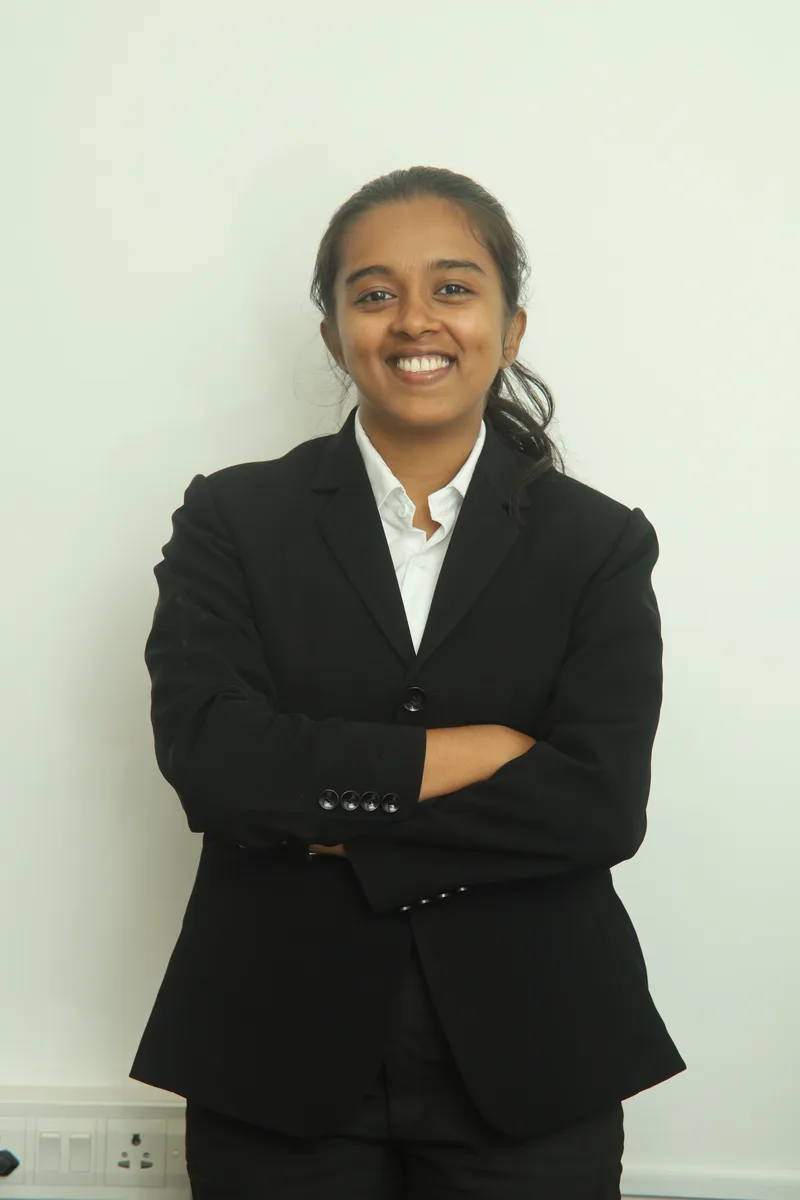
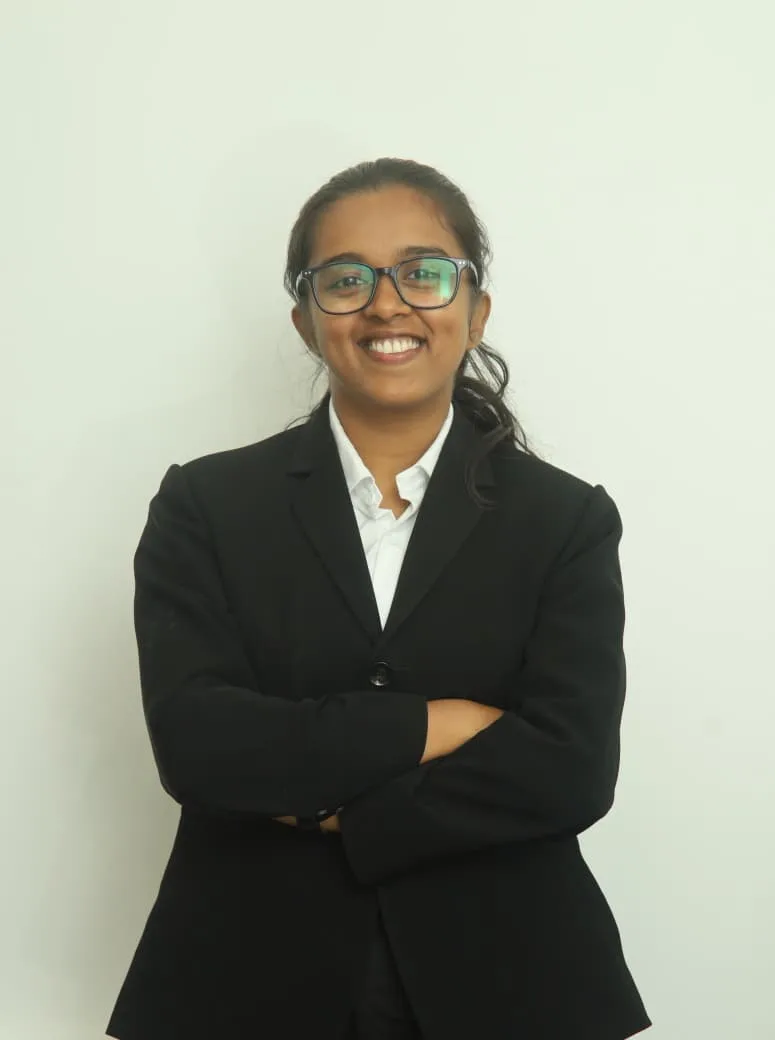
Update Najiya and Ashna team photos

diff --git a/contact.html b/contact.html
@@ -27,9 +27,9 @@
 <section class="section-sm bg-white">
   <div class="container">
     <div class="grid grid-3">
-      <a class="card reveal" href="#" data-tel><div class="icon-box"><span class="micn">call</span></div><h3 class="h3">Call the Office</h3><p class="body mt-2" data-phone-text>+91 484 297 4500</p><span class="link-arrow mt-3">Call now <span class="micn">arrow_forward</span></span></a>
+      <a class="card reveal" href="#" data-tel><div class="icon-box"><span class="micn">call</span></div><h3 class="h3">Call the Office</h3><p class="body mt-2" data-phone-text>+91 495 796 7341</p><span class="link-arrow mt-3">Call now <span class="micn">arrow_forward</span></span></a>
       <a class="card dark reveal" href="#" data-wa><div class="icon-box"><span class="micn">chat</span></div><h3 class="h3">WhatsApp</h3><p class="body mt-2">Message us for a quick response during office hours.</p><span class="link-arrow mt-3 text-gold-light">Open WhatsApp <span class="micn">arrow_forward</span></span></a>
-      <a class="card reveal" href="#" data-mail><div class="icon-box"><span class="micn">mail</span></div><h3 class="h3">Email</h3><p class="body mt-2" data-email-text>contact@sentinellaw.in</p><span class="link-arrow mt-3">Send email <span class="micn">arrow_forward</span></span></a>
+      <a class="card reveal" href="#" data-mail><div class="icon-box"><span class="micn">mail</span></div><h3 class="h3">Email</h3><p class="body mt-2" data-email-text>sentinellaw.info@gmail.com</p><span class="link-arrow mt-3">Send email <span class="micn">arrow_forward</span></span></a>
     </div>
   </div>
 </section>
@@ -44,8 +44,9 @@
 
       <div class="card" style="background:var(--surface-bright)">
         <h4 class="h4 mb-2">Office</h4>
-        <p class="small"><b data-phone-text>+91 484 297 4500</b><br/>
-        <span data-email-text>contact@sentinellaw.in</span></p>
+        <p class="small"><b data-phone-text>+91 495 796 7341</b><br/>
+        <a href="tel:+919633091582">+91 96330 91582</a> &middot; <a href="tel:+919633420844">+91 96334 20844</a><br/>
+        <span data-email-text>sentinellaw.info@gmail.com</span></p>
         <p class="small mt-2">Kurial Lane, Convent Road,<br/>Kozhikode, Kerala 673032</p>
         <p class="small mt-2"><b>Hours:</b> Mon–Sat, 9:30 AM – 6:30 PM IST<br/><span class="text-gold">NRI desk available across time zones by appointment.</span></p>
       </div>

diff --git a/assets/js/site.js b/assets/js/site.js
@@ -9,11 +9,15 @@
   // ---- Firm contact details (placeholders — update with real values) ----
   var FIRM = {
     name: "Sentinel Law Practitioners",
-    phoneDisplay: "+91 484 297 4500",
-    phoneHref: "+914842974500",
+    phoneDisplay: "+91 495 796 7341",
+    phoneHref: "+914957967341",
+    mobiles: [
+      { display: "+91 96330 91582", href: "+919633091582" },
+      { display: "+91 96334 20844", href: "+919633420844" }
+    ],
     whatsapp: "919633091582",
     whatsappMsg: "Hello%20Sentinel%20Law%2C%20I%27d%20like%20to%20schedule%20a%20consultation.",
-    email: "contact@sentinellaw.in",
+    email: "sentinellaw.info@gmail.com",
     addressLine1: "Kurial Lane, Convent Road",
     addressLine2: "Kozhikode, Kerala 673032"
   };
@@ -148,6 +152,7 @@
             '<span class="line">' + FIRM.addressLine1 + "</span>" +
             '<span class="line">' + FIRM.addressLine2 + "</span>" +
             '<a href="' + TEL + '">' + FIRM.phoneDisplay + "</a>" +
+            FIRM.mobiles.map(function (m) { return '<a href="tel:' + m.href + '">' + m.display + "</a>"; }).join("") +
             '<a href="mailto:' + FIRM.email + '">' + FIRM.email + "</a>" +
           "</div>" +
           '<div class="footer-col"><h5>Firm</h5>' +

diff --git a/team.html b/team.html
@@ -76,7 +76,7 @@
       </article>
 
       <article class="team-card reveal">
-        <div class="photo"><img src="assets/img/team/najiya.webp" alt="Adv. Najiya Nusrin K"/></div>
+        <div class="photo"><img src="assets/img/team/najiya.webp?v=2" alt="Adv. Najiya Nusrin K"/></div>
         <div class="pad">
           <h3 class="h3">Adv. Najiya Nusrin K</h3>
           <div class="role">Associate Advocate · Family Law, Matrimonial Disputes &amp; Civil Litigation</div>
@@ -91,7 +91,7 @@
       </article>
 
       <article class="team-card reveal">
-        <div class="photo"><img src="assets/img/team/ashna.webp" alt="Adv. Ashna Ajay A.S."/></div>
+        <div class="photo"><img src="assets/img/team/ashna.webp?v=2" alt="Adv. Ashna Ajay A.S."/></div>
         <div class="pad">
           <h3 class="h3">Adv. Ashna Ajay A.S.</h3>
           <div class="role">Associate Advocate · Criminal Litigation · Child &amp; Women&#39;s Rights</div>
